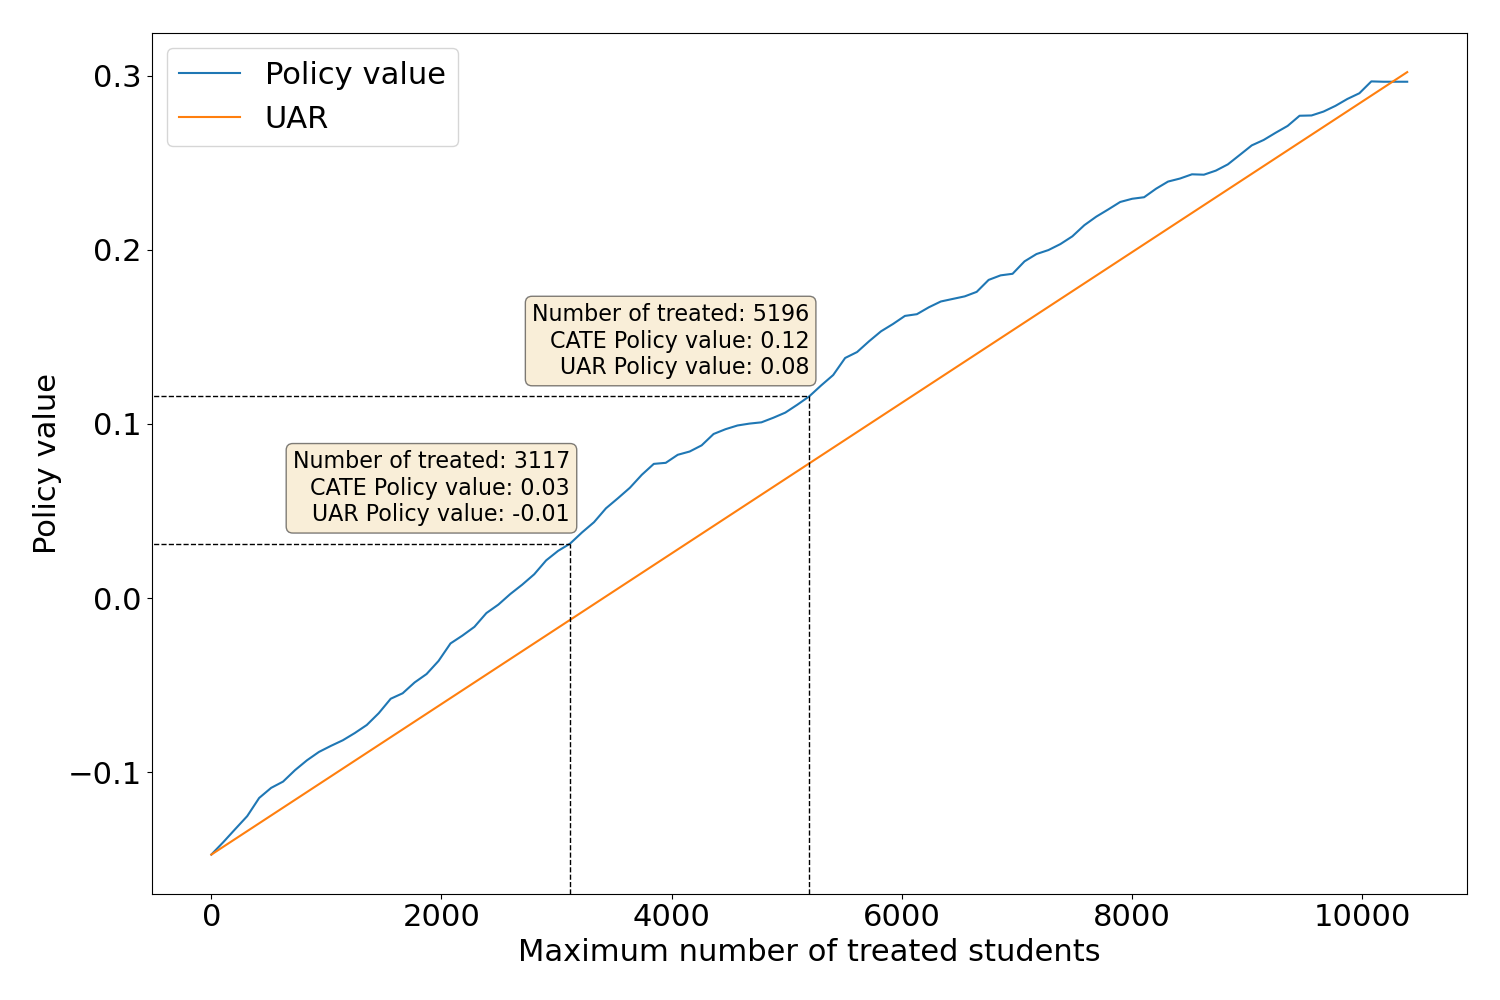
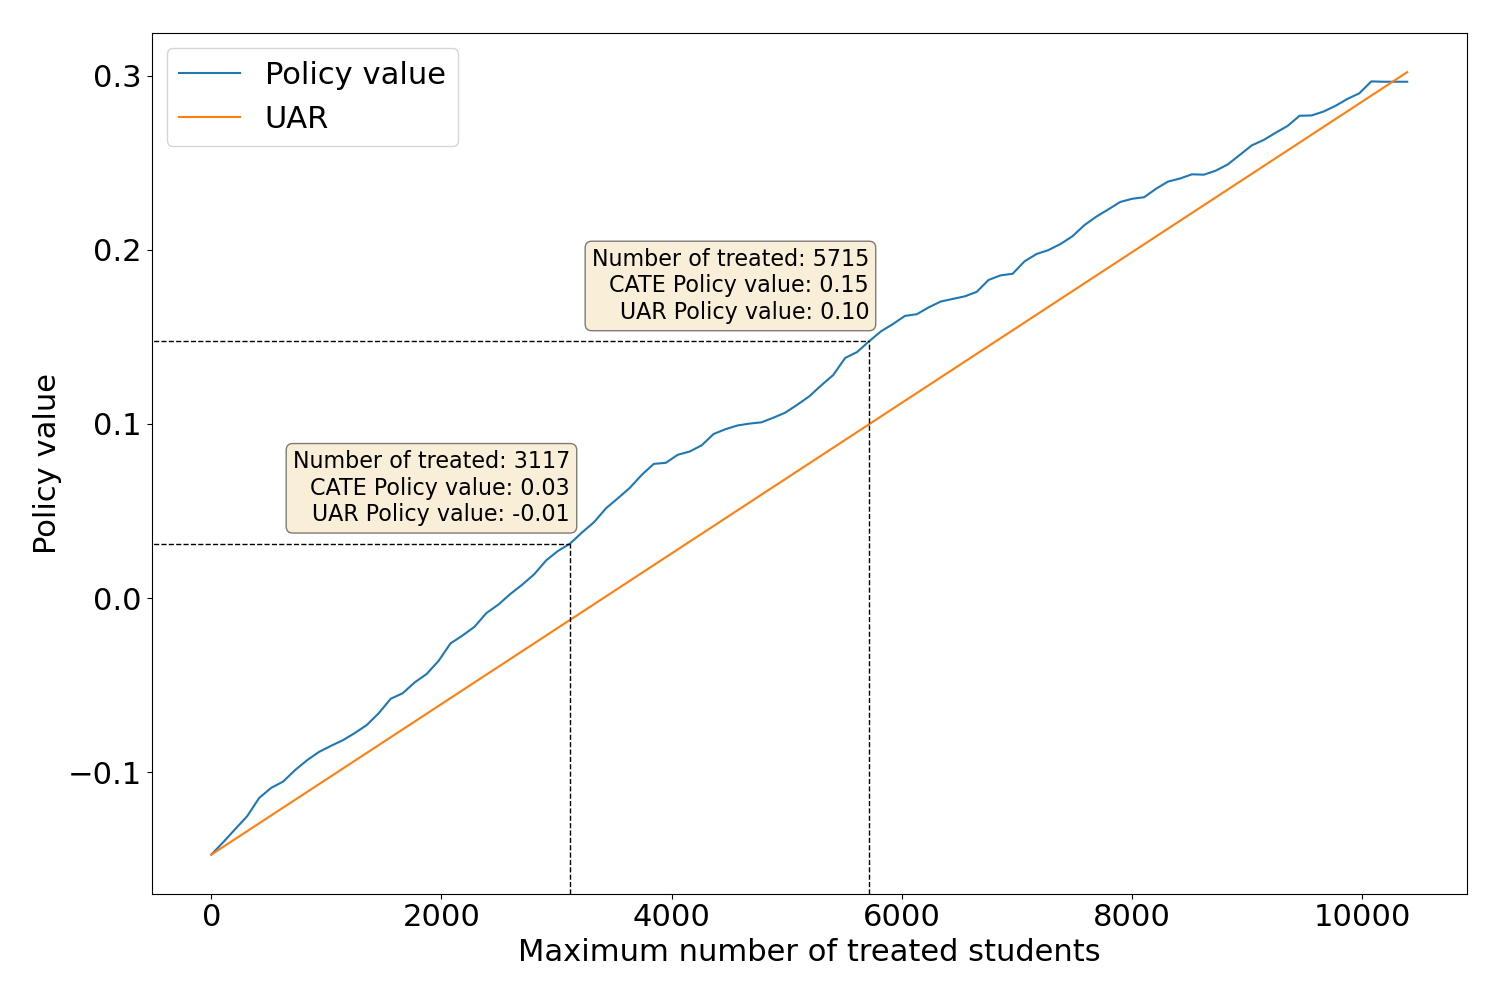
Add gpa conversion

Changed region(s): [[0.3373, 0.217, 0.5827, 0.403]]

diff --git a/src/script.py b/src/script.py
@@ -330,6 +330,10 @@ def _policy_from_budget(cate_estimates, budget):
     return policy
 
 
+def _convert_policy_value_to_gpa(policy_value):
+    return 2.514 + 1.143 * policy_value
+
+
 def step_6(rlearner: RLearner, df, feature_columns, treatment_column, outcome_column):
     propensity_scores = rlearner.predict_nuisance(
         X=df[feature_columns], model_kind="propensity_model", model_ord=0, is_oos=False
@@ -378,12 +382,13 @@ def step_6(rlearner: RLearner, df, feature_columns, treatment_column, outcome_co
     # we fix the lim so they don't change when plotting the lines
     ax.set_xlim(ax.get_xlim())
     ax.set_ylim(ax.get_ylim())
-    for x in [0.3, 0.5]:
+    y_size = ax.get_ylim()[1] - ax.get_ylim()[0]
+    ps = [0.3, 0.55]
+    for x in ps:
         y = policy_values[int(x * 100)]
         y_uar = policy_value_0 + x * (policy_value_1 - policy_value_0)
         text = f"Number of treated: {round(x*len(df))}\nCATE Policy value: {y:.2f}\nUAR Policy value: {y_uar:.2f}"
         props = dict(boxstyle="round", facecolor="wheat", alpha=0.5)
-        y_size = ax.get_ylim()[1] - ax.get_ylim()[0]
         ax.text(
             x * len(df),
             y + 0.02 * y_size,
@@ -398,6 +403,24 @@ def step_6(rlearner: RLearner, df, feature_columns, treatment_column, outcome_co
 
     fig.tight_layout()
     fig.savefig("policy_value.png")
+    for x in ps:
+        y = policy_values[int(x * 100)]
+        y_gpa = _convert_policy_value_to_gpa(y)
+        y_uar = policy_value_0 + x * (policy_value_1 - policy_value_0)
+        y_uar_gpa = _convert_policy_value_to_gpa(y_uar)
+        text = f"Avg GPA CATE Policy: {y_gpa:.2f}\nAvg GPA UAR Policy: {y_uar_gpa:.2f}"
+        props = dict(boxstyle="round", facecolor="red", alpha=0.5)
+
+        ax.text(
+            x * len(df),
+            y + 0.15 * y_size,
+            text,
+            fontsize=_FONT_SIZE,
+            bbox=props,
+            ha="right",
+            va="bottom",
+        )
+    fig.savefig("policy_value_with_gpa.png")
 
 
 def step_overlap(df, treatment_column, feature_columns, categorical_feature_columns):

diff --git a/slides/slides.md b/slides/slides.md
@@ -439,6 +439,12 @@ Using our CATE estimates, we can define a policy that targets the most promising
 
 ---
 
+## Making it tangible
+
+![w:750 center](imgs/policy_value_with_gpa.png)
+
+---
+
 <!-- _footer: ''-->
 <!-- _header: ''-->
 
@@ -479,7 +485,7 @@ Join us!
 ## Data dictionary
 
 | Name                   | Type        | Meaning                                                                                        |
-|------------------------|-------------|------------------------------------------------------------------------------------------------|
+| ---------------------- | ----------- | ---------------------------------------------------------------------------------------------- |
 | ethnicity              | categorical | student race/ethnicity                                                                         |
 | gender                 | categorical | student-identified gender                                                                      |
 | success_expect         | discrete    | self-reported expectations for success in the future                                           |
